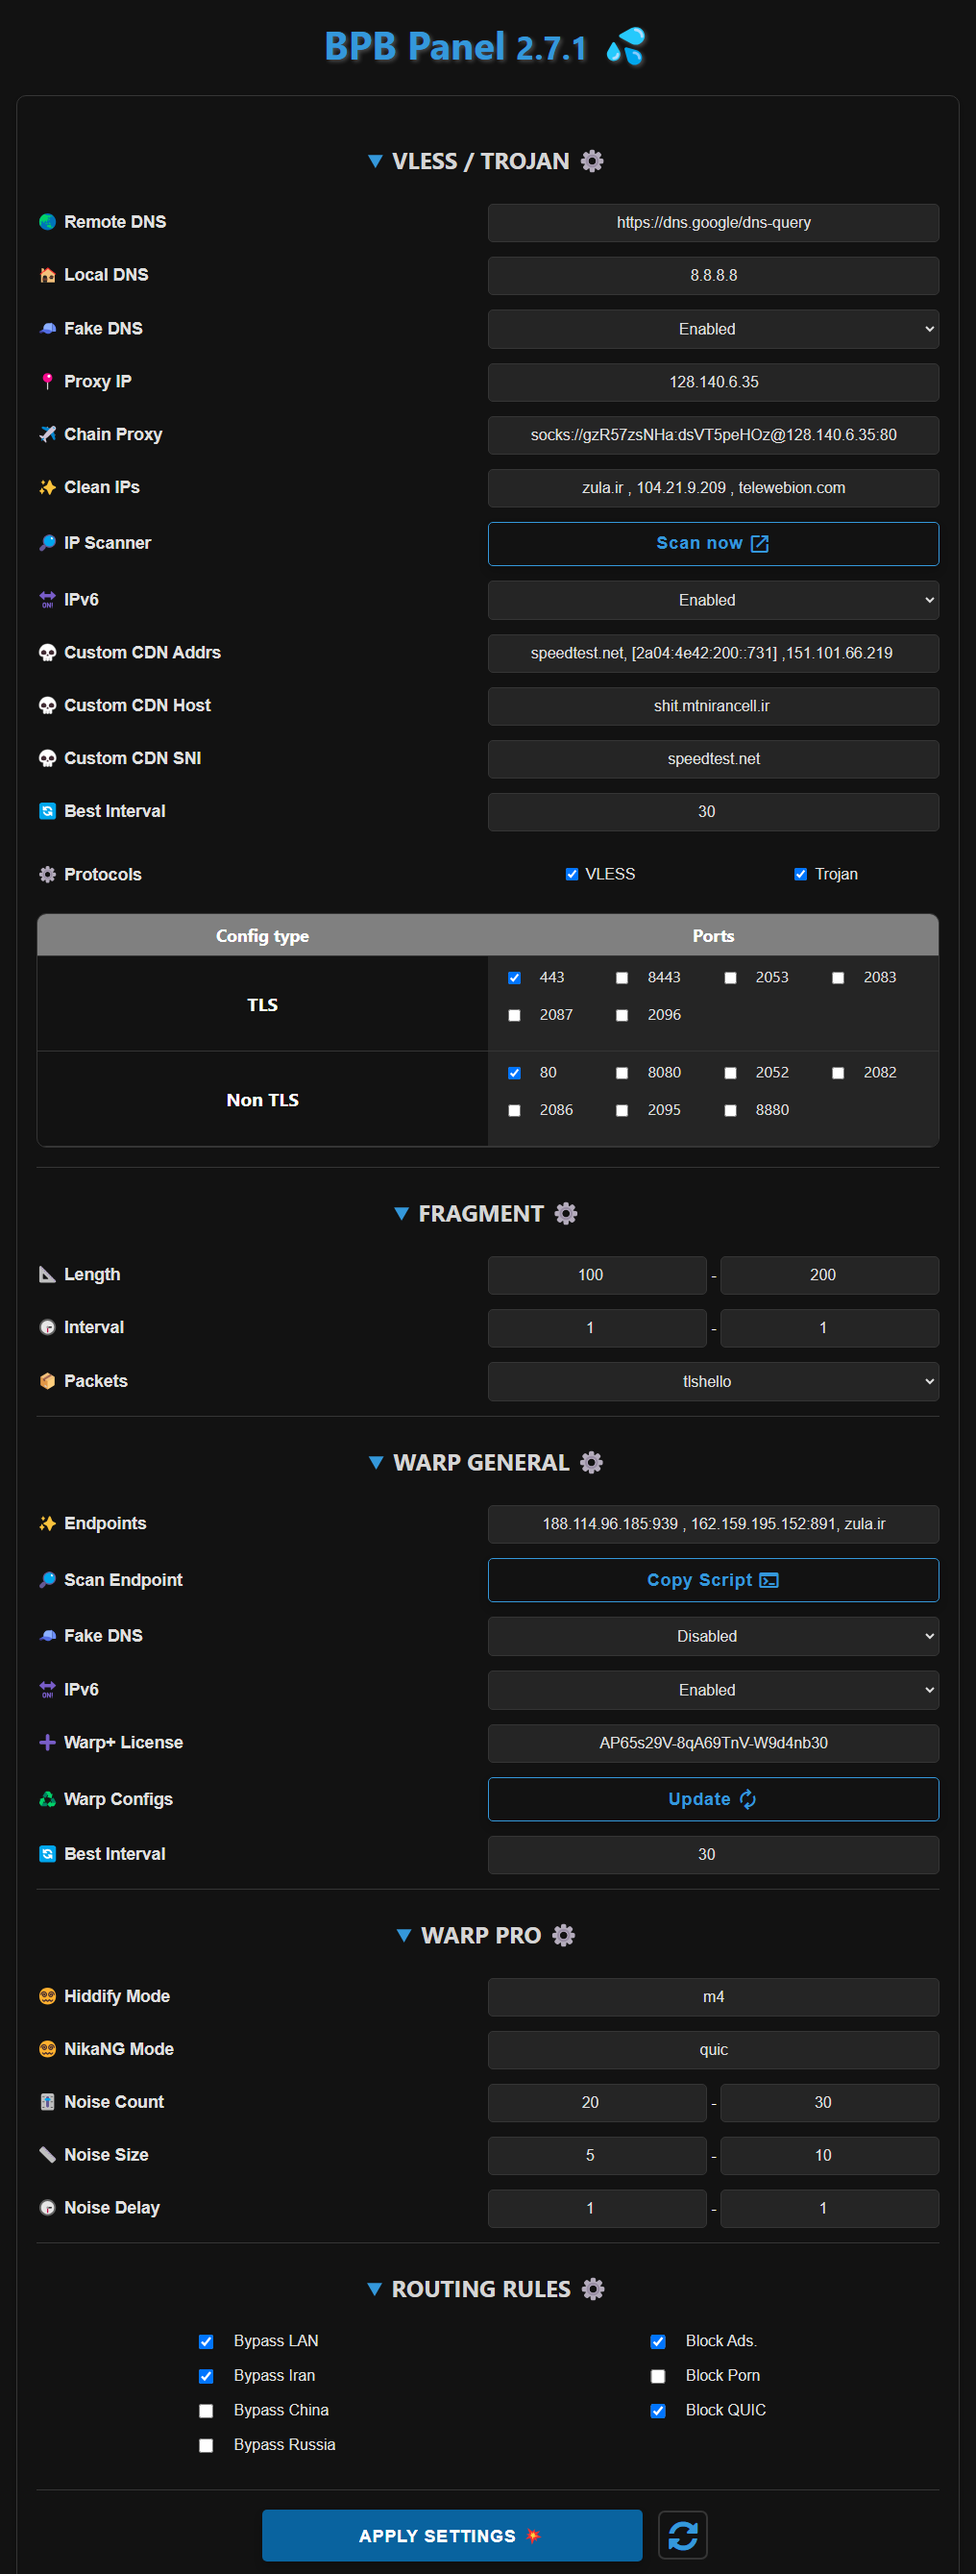
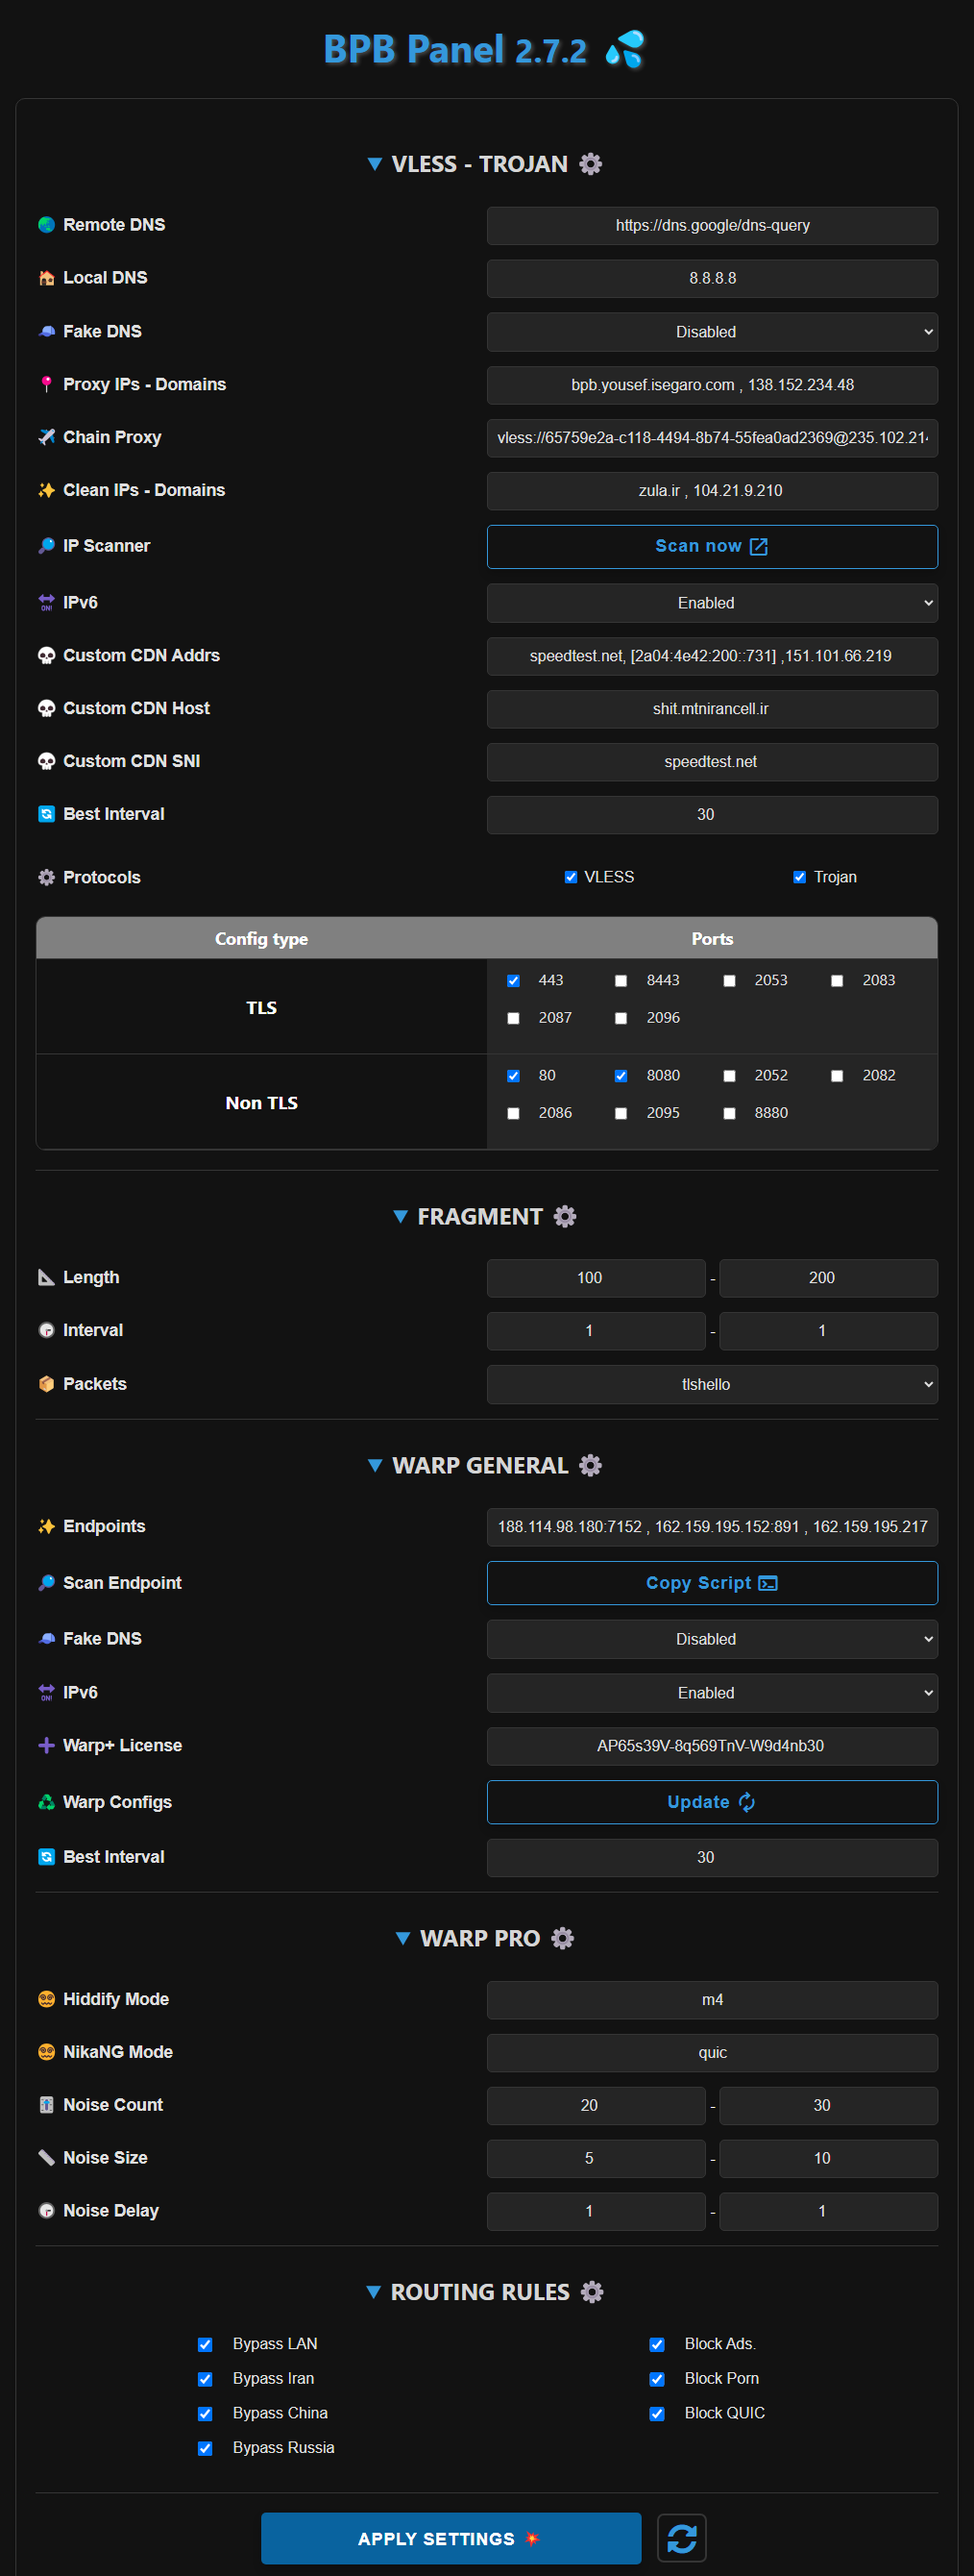
Bug fixes, UI changes.

diff --git a/src/pages/home.js b/src/pages/home.js
@@ -391,7 +391,7 @@ export async function renderHomePage (request, env, proxySettings, isPassSet) {
         <div class="form-container">
             <form id="configForm">
                 <details open>
-                    <summary><h2>VLESS / TROJAN ⚙</h2></summary>
+                    <summary><h2>VLESS - TROJAN ⚙</h2></summary>
                     <div class="form-control">
                         <label for="remoteDNS">🌏 Remote DNS</label>
                         <input type="url" id="remoteDNS" name="remoteDNS" value="${remoteDNS}" required>
@@ -412,7 +412,7 @@ export async function renderHomePage (request, env, proxySettings, isPassSet) {
                         </div>
                     </div>
                     <div class="form-control">
-                        <label for="proxyIP">📍 Proxy IP</label>
+                        <label for="proxyIP">📍 Proxy IPs - Domains</label>
                         <input type="text" id="proxyIP" name="proxyIP" value="${proxyIP.replaceAll(",", " , ")}">
                     </div>
                     <div class="form-control">
@@ -420,7 +420,7 @@ export async function renderHomePage (request, env, proxySettings, isPassSet) {
                         <input type="text" id="outProxy" name="outProxy" value="${outProxy}">
                     </div>
                     <div class="form-control">
-                        <label for="cleanIPs">✨ Clean IPs</label>
+                        <label for="cleanIPs">✨ Clean IPs - Domains</label>
                         <input type="text" id="cleanIPs" name="cleanIPs" value="${cleanIPs.replaceAll(",", " , ")}">
                     </div>
                     <div class="form-control">
@@ -679,7 +679,7 @@ export async function renderHomePage (request, env, proxySettings, isPassSet) {
                     </tr>
                     <tr>
                         <td>
-                            ${supportedApps(['Nekobox', 'Nekoray (Sing-Box)', 'Karing'])}
+                            ${supportedApps(['husi', 'Nekobox', 'Nekoray (sing-Box)', 'Karing'])}
                         </td>
                         <td>
                             ${subURL('sub', 'singbox', 'BPB-Normal')}
@@ -705,7 +705,7 @@ export async function renderHomePage (request, env, proxySettings, isPassSet) {
                     </tr>
                     <tr>
                         <td>
-                            ${supportedApps(['Sing-box'])}
+                            ${supportedApps(['sing-box', 'v2rayN (sing-box)'])}
                         </td>
                         <td>
                             ${subQR('sub', 'sfa', 'BPB-Full-Normal', 'Full normal Subscription', true)}
@@ -714,7 +714,7 @@ export async function renderHomePage (request, env, proxySettings, isPassSet) {
                     </tr>
                     <tr>
                         <td>
-                            ${supportedApps(['Clash Meta', 'Clash Verge', 'v2rayN', 'FlClash', 'Stash'])}
+                            ${supportedApps(['Clash Meta', 'Clash Verge', 'FlClash', 'Stash', 'v2rayN (mihomo)'])}
                         </td>
                         <td>
                             ${subQR('sub', 'clash', 'BPB-Full-Normal', 'Full normal Subscription')}
@@ -768,7 +768,7 @@ export async function renderHomePage (request, env, proxySettings, isPassSet) {
                     </tr>
                     <tr>
                         <td>
-                            ${supportedApps(['Hiddify', 'Sing-box'])}
+                            ${supportedApps(['Hiddify', 'sing-box', 'v2rayN (sing-box)'])}
                         </td>
                         <td>
                             ${subQR('sub', 'singbox', 'BPB-Warp', 'Warp Subscription', true)}
@@ -777,7 +777,7 @@ export async function renderHomePage (request, env, proxySettings, isPassSet) {
                     </tr>
                     <tr>
                         <td>
-                            ${supportedApps(['Clash Meta', 'Clash Verge', 'v2rayN', 'FlClash', 'Stash'])}
+                            ${supportedApps(['Clash Meta', 'Clash Verge', 'FlClash', 'Stash', 'v2rayN (mihomo)'])}
                         </td>
                         <td>
                             ${subQR('warpsub', 'clash', 'BPB-Warp', 'Warp Subscription')}
@@ -841,12 +841,12 @@ export async function renderHomePage (request, env, proxySettings, isPassSet) {
                 </div>
             </div>
             <hr>
-            <h2>YOUR IP 💡</h2>
+            <h2>MY IP 💡</h2>
             <div class="table-container">
                 <table id="ips" style="text-align: center; margin-bottom: 15px; text-wrap-mode: nowrap;">
                     <tr>
-                        <th>Target</th>
-                        <th>Your IP</th>
+                        <th>Target Address</th>
+                        <th>IP</th>
                         <th>Country</th>
                         <th>City</th>
                         <th>ISP</th>

diff --git a/src/cores-configs/sing-box.js b/src/cores-configs/sing-box.js
@@ -160,7 +160,7 @@ function buildSingBoxRoutingRules (proxySettings) {
         },
         {
             clash_mode: "Global",
-            outbound: "proxy"
+            outbound: "✅ Selector"
         }
     ];
 
@@ -598,7 +598,7 @@ export async function getSingBoxCustomConfig(request, env, isFragment) {
     const customCdnAddresses = customCdnAddrs ? customCdnAddrs.split(',') : [];
     const totalAddresses = [...Addresses, ...customCdnAddresses];
     const config = structuredClone(singboxConfigTemp);
-    const dnsObject = buildSingBoxDNS(proxySettings, totalAddresses, false, chainProxy ? 'proxy-1' : 'proxy');
+    const dnsObject = buildSingBoxDNS(proxySettings, totalAddresses, false, chainProxy ? 'proxy-1' : '✅ Selector');
     const {rules, rule_set} = buildSingBoxRoutingRules(proxySettings);
     config.dns.servers = dnsObject.servers;
     config.dns.rules = dnsObject.rules;
@@ -727,7 +727,7 @@ const singboxConfigTemp = {
     outbounds: [
         {
             type: "selector",
-            tag: "proxy",
+            tag: "✅ Selector",
             outbounds: []
         },
         {
@@ -755,7 +755,7 @@ const singboxConfigTemp = {
         rule_set: [],
         auto_detect_interface: true,
         override_android_vpn: true,
-        final: "proxy"
+        final: "✅ Selector"
     },
     ntp: {
         enabled: true,

diff --git a/src/cores-configs/clash.js b/src/cores-configs/clash.js
@@ -38,15 +38,15 @@ async function buildClashDNS (proxySettings, isChain, isWarp) {
         "use-hosts": true,
         "use-system-hosts": false,
         "nameserver": isWarp 
-            ? warpRemoteDNS.map(dns => isChain ? `${dns}#💦 Warp - Best Ping 🚀` : dns) 
-            : [isChain ? `${remoteDNS}#proxy-1` : remoteDNS],
+            ? warpRemoteDNS.map(dns => isChain ? `${dns}#💦 Warp - Best Ping 🚀` : `${dns}#✅ Selector`) 
+            : [isChain ? `${remoteDNS}#proxy-1` : `${remoteDNS}#✅ Selector`],
         "proxy-server-nameserver": [`${localDNS}#DIRECT`]
     };
 
     if (isChain && !isWarp) {
         const chainOutboundServer = JSON.parse(outProxyParams).server;
         if (isDomain(chainOutboundServer)) dns["nameserver-policy"] = {
-            [chainOutboundServer]: `${remoteDNS}#proxy-1`
+            [chainOutboundServer]: isChain ? `${remoteDNS}#proxy-1` : `${remoteDNS}#✅ Selector`
         };    
     } 
 

diff --git a/src/helpers/helpers.js b/src/helpers/helpers.js
@@ -51,11 +51,11 @@ export async function handlePanel(request, env) {
         return new Response('Success', { status: 200 });
     }
         
+    const { kvNotFound, proxySettings } = await getDataset(request, env);
+    if (kvNotFound) return await renderErrorPage(request, env, 'KV Dataset is not properly set!', null, true);
     const pwd = await env.bpb.get('pwd');
     if (pwd && !auth) return Response.redirect(`${origin}/login`, 302);
     const isPassSet = pwd?.length >= 8;
-    const { kvNotFound, proxySettings } = await getDataset(request, env);
-    if (kvNotFound) return await renderErrorPage(request, env, 'KV Dataset is not properly set!', null, true);
     return await renderHomePage(request, env, proxySettings, isPassSet);
 }
 

diff --git a/src/kv/handlers.js b/src/kv/handlers.js
@@ -32,8 +32,8 @@ export async function getDataset(request, env) {
 
 export async function updateDataset (request, env) {
     await initializeParams(request, env);
-    let newSettings = await request.formData();
-    const isReset = newSettings.get('resetSettings') === 'true';
+    let newSettings = request.method === 'POST' ? await request.formData() : null;
+    const isReset = newSettings?.get('resetSettings') === 'true';
     let currentSettings;
     if (!isReset) {
         try {

diff --git a/docs/configuration_fa.md b/docs/configuration_fa.md
@@ -119,10 +119,10 @@
 > اپ Hiddify هم باید حداقل ورژنش 2.0.5 باشه.
 
 <br>
-<h1 align="center">جدول Your IP</h1>
+<h1 align="center">جدول My IP</h1>
 
 <p align="center">
-  <img src="assets/images/Your-IP.jpg">
+  <img src="assets/images/My-IP.jpg">
 </p>
 
 بعد از وصل شدن به پروکسی میتونید صفحه رو رفرش کنید و به این جدول مراجعه کنید و ببینید IP هاتون چیه. این جدول دو ردیف داره، ردیف اول IP شما رو برای آدرسهاس Cloudflare نشون میده، اگر Proxy IP داشته باشید IP شما برای آدرسهای Cloudflare همین Proxy IP خواهد بود و برای مابقی آدرسها یک IP تصادفی کلادفلر. بنابراین از این طریق میتونید چک کنید Proxy IP که انتخاب کردید اعمال شده یا نه. اگر با کانفیگهای Warp وصل بشید هم قاعدتا هر دو ردیف جدول باید یک IP رو نشون بدن.
